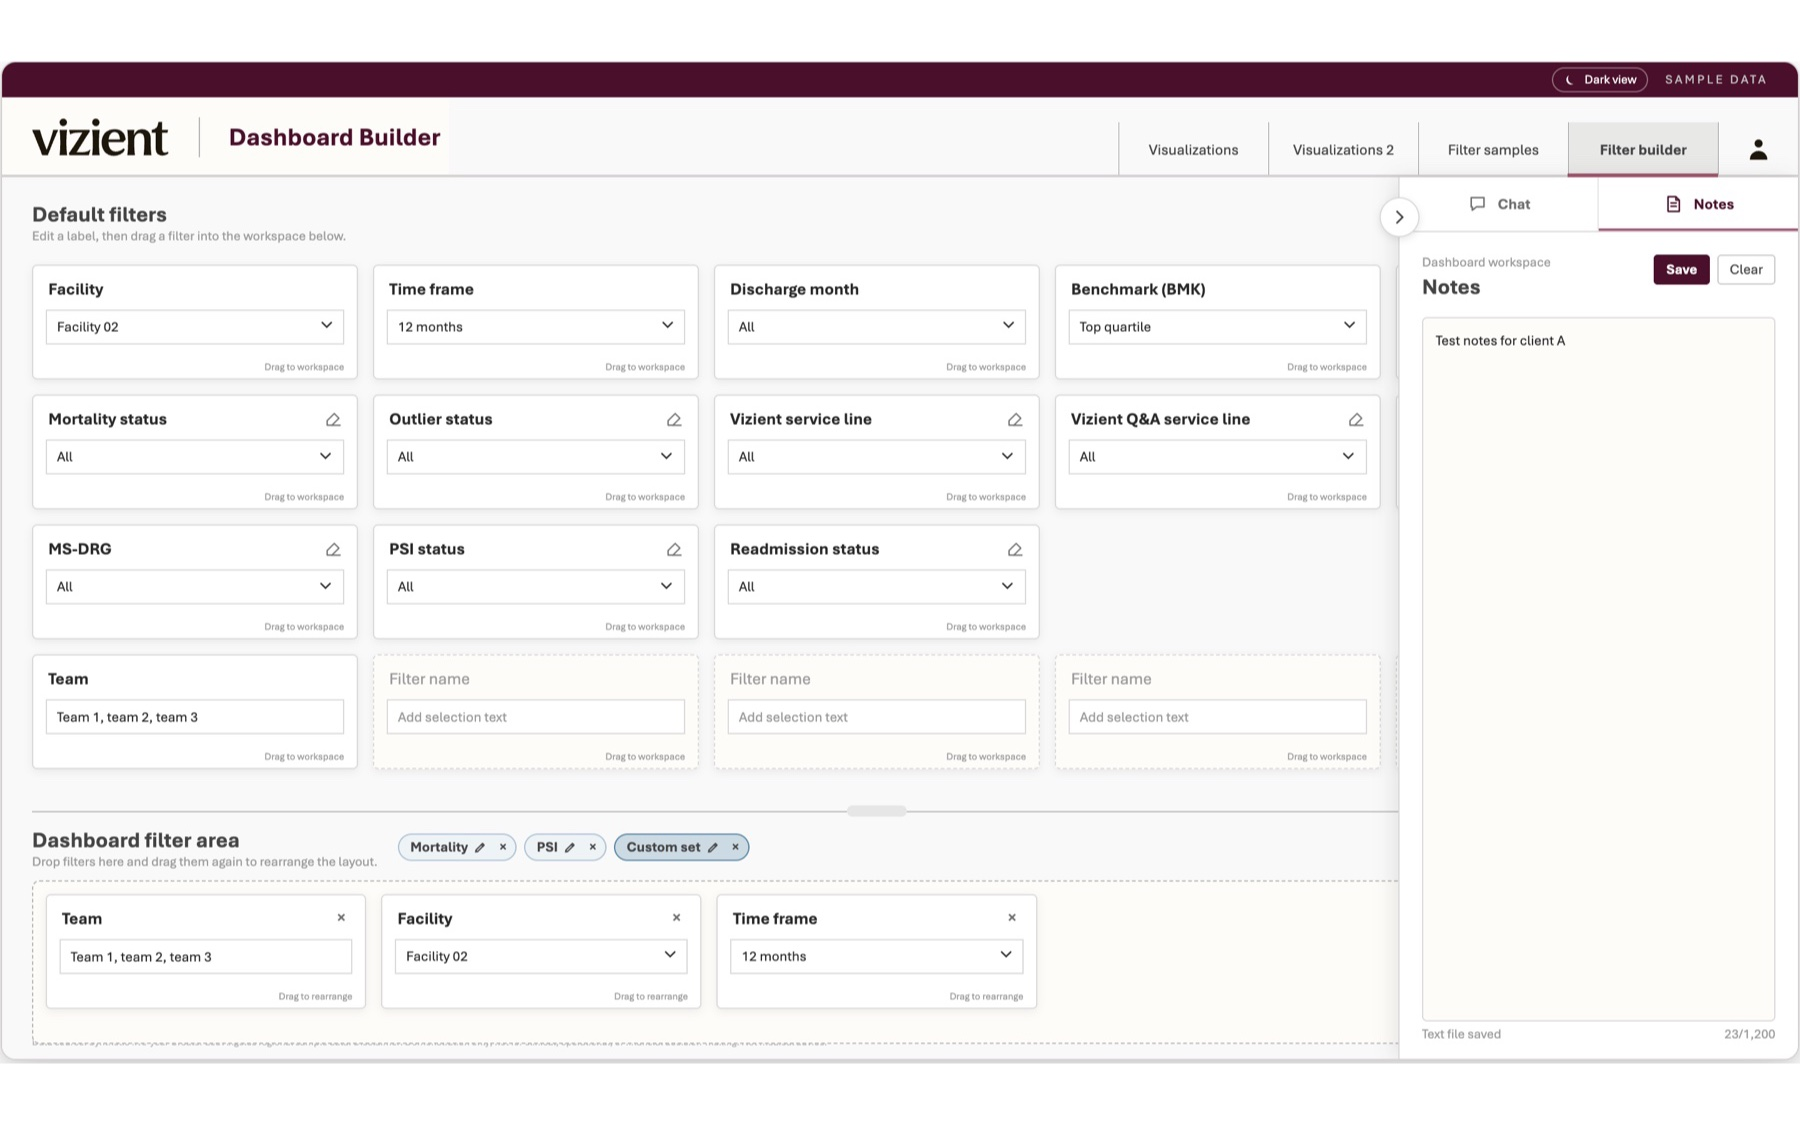
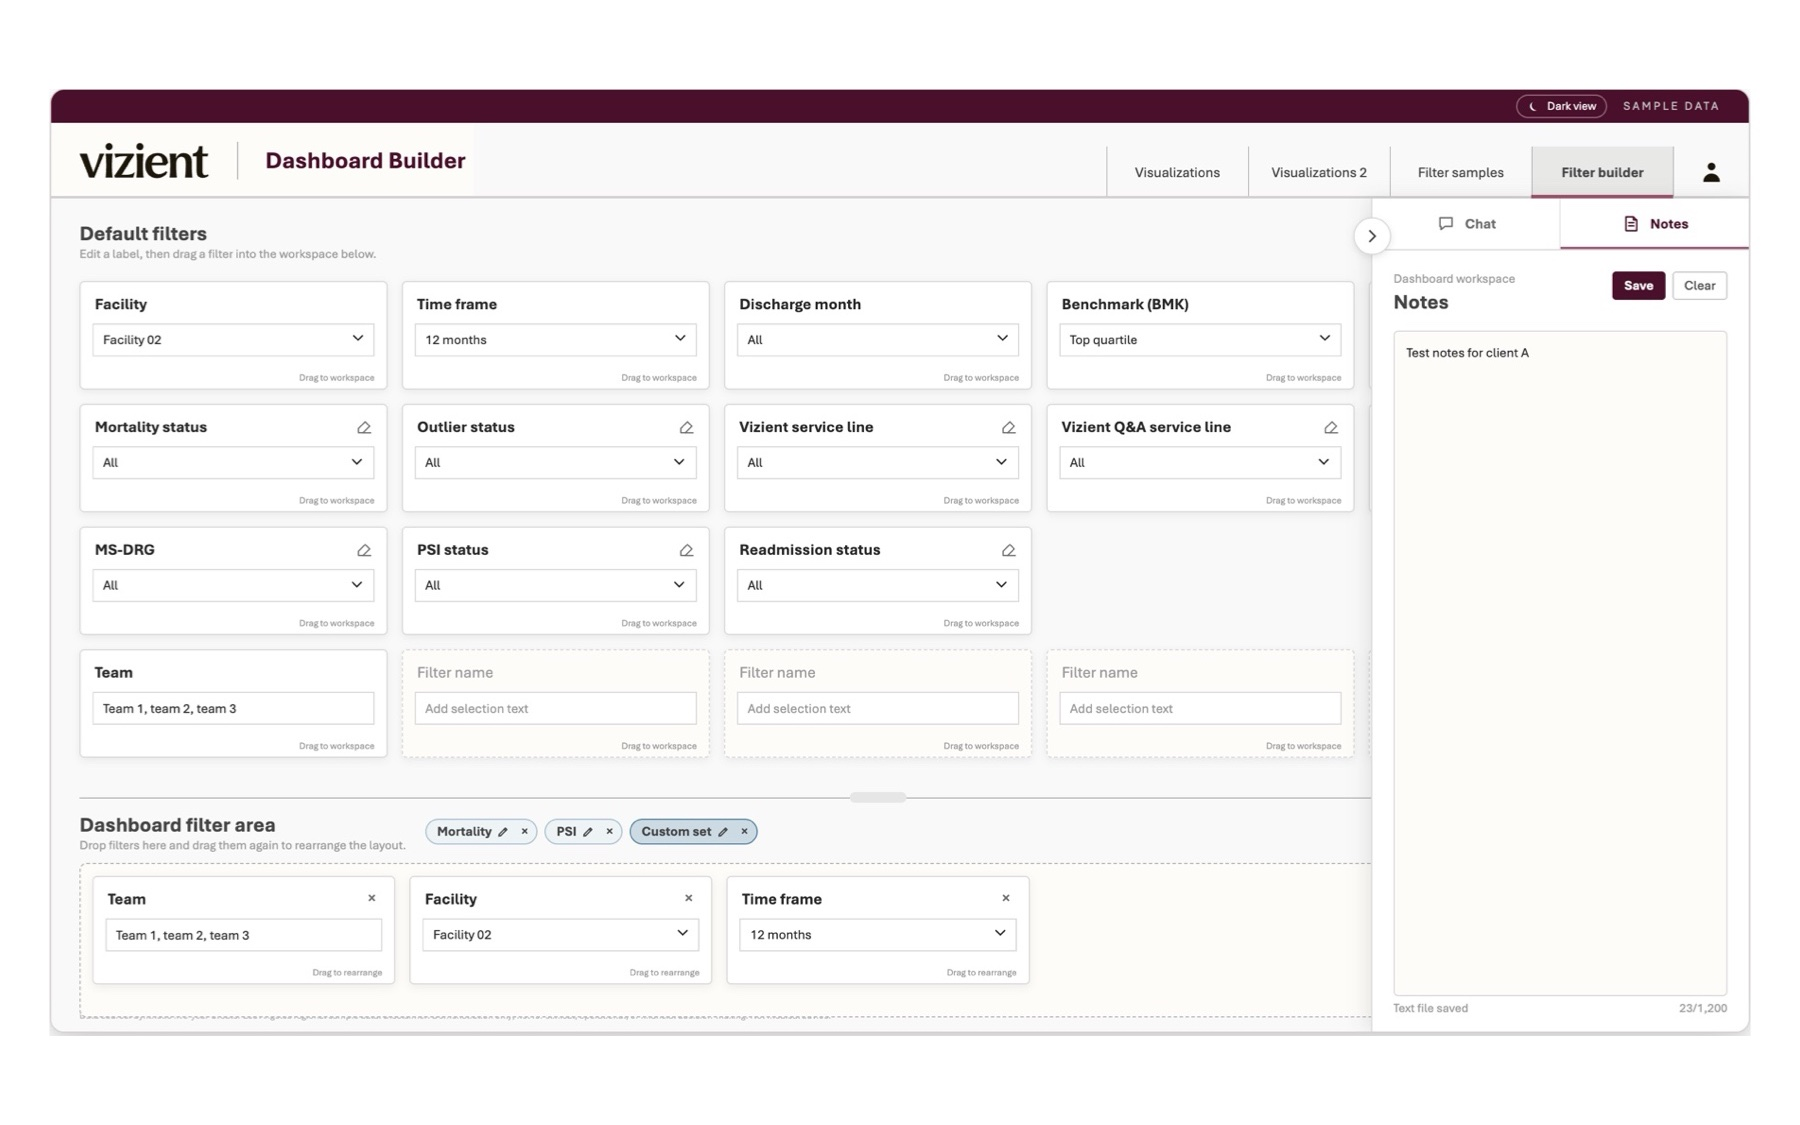
Healthcare tile: margin around the capture, and a title that stops repeating
The Dashboard Builder capture ran edge to edge in the frame; it now sits with
a small margin on all four sides.

"Healthcare dashboards" said healthcare three times over once the sub and the
new Healthcare pill were counted. The title is now "U.S. hospital design
systems" - which is also what the study's own lede says the work is - and the
sub drops its leading "Healthcare".

diff --git a/index.html b/index.html
@@ -118,18 +118,18 @@
         <!-- The Dashboard Builder prototype, cropped to the app itself. The
              browser chrome came off before import: the bookmarks bar carried a
              client name and this tile sits on the public front page. -->
-        <img src="assets/img/tools/healthcare-tile.jpg?v=20260817c"
+        <img src="assets/img/tools/healthcare-tile.jpg?v=20260817d"
              width="1800" height="1125" loading="lazy" decoding="async"
              alt="A dashboard builder prototype: a grid of named filter cards - facility, time frame, benchmark, mortality and readmission status - above the workspace they are dragged into, with a notes rail on the right.">
       </div>
       <div class="tile__body">
         <div class="tile__head">
           <h3 class="tile__title">
-            <a class="tile__link" href="work/healthcare-system.html">Healthcare dashboards</a>
+            <a class="tile__link" href="work/healthcare-system.html">U.S. hospital design systems</a>
           </h3>
           <span class="meta">2022 - present</span>
         </div>
-        <p class="tile__sub">Healthcare executive dashboards, and the color standard under them.</p>
+        <p class="tile__sub">Executive dashboards, and the color standard under them.</p>
         <div class="tile__tags">
           <span class="tag tag--type">Dashboard</span>
           <span class="tag">Design system</span>
